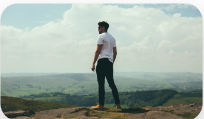
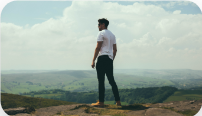
i

diff --git a/Peach/public_html/css/screen.css b/Peach/public_html/css/screen.css
@@ -33,9 +33,12 @@ body.home:before{
 
 /*Home*/
 main.home .wallet-container {
+    background-color: transparent;
     margin-top: 4rem;
     text-align: center;
     color: white;
+    font-size: 0.6rem;
+    white-space: nowrap;
 }
 main.home .wallet-container .wallet {
     display: inline-block;
@@ -43,17 +46,31 @@ main.home .wallet-container .wallet {
     -webkit-box-shadow: 0px 15px 86px -7px rgba(0,0,0,0.44);
     -moz-box-shadow: 0px 15px 86px -7px rgba(0,0,0,0.44);
     box-shadow: 0px 15px 86px -7px rgba(0,0,0,0.44);
-    line-height: 2rem;
+    line-height: 3rem;
     width: 10rem;
     margin: 0 2rem;
     border-radius: 2rem;
+    text-align: left;
+    padding: 0 1rem;
 }
 main.home .wallet-container .background {
-    background-image: url(../images/Groupe-45.png);
-    background-size: cover;
-    z-index: 1;
+    width: 100%;
+    height: 100%;
 }
-
+/*main.home .wallet-container .background {
+    background-image: url(../images/Groupe-45.png);
+    background-size: 100% 100%;
+    background-repeat: no-repeat;
+    z-index: 1;
+    border-radius: 0;
+}*/
+main.home .wallet-container .wallet-id, main.home .wallet-container .mail-alert {
+    text-align: right;
+}
+main.home .wallet-container .amount {
+    font-size: 1.3rem;
+    font-weight: bold
+}
 
 /*Account*/
 .navigator{

diff --git a/Peach/public_html/Home.html b/Peach/public_html/Home.html
@@ -27,11 +27,18 @@
         </header>
         <main class="home">
             <div class="wallet-container">
-                <div class="row wallet background">
-                    <div class="col-6 wallet-title"><span>Your Wallet</span></div>
-                    <div class="col-6 wallet-id"><span>R20Y723</span></div>
-                    <div class="col-6 amount"><span>284.12$</span></div>
-                    <div class="col-6 mail-alert"><img src="images/Glyphs-Mail-Alert.png" alt=""/></div>
+                <div class="wallet-background">
+                    <img class="background" src="images/joseph-pearson.png" />
+                    <div class="wallet">
+                        <div class="row">
+                            <div class="col-6 wallet-title"><span>Your Wallet</span></div>
+                            <div class="col-6 wallet-id"><span>R20Y723</span></div>
+                        </div>
+                        <div class="row">
+                            <div class="col-9 amount"><span>284.12$</span></div>
+                            <div class="col-3 mail-alert"><img src="images/Glyphs-Mail-Alert.png" alt=""/></div>
+                        </div>
+                    </div>
                 </div>
             </div>
         </main>
